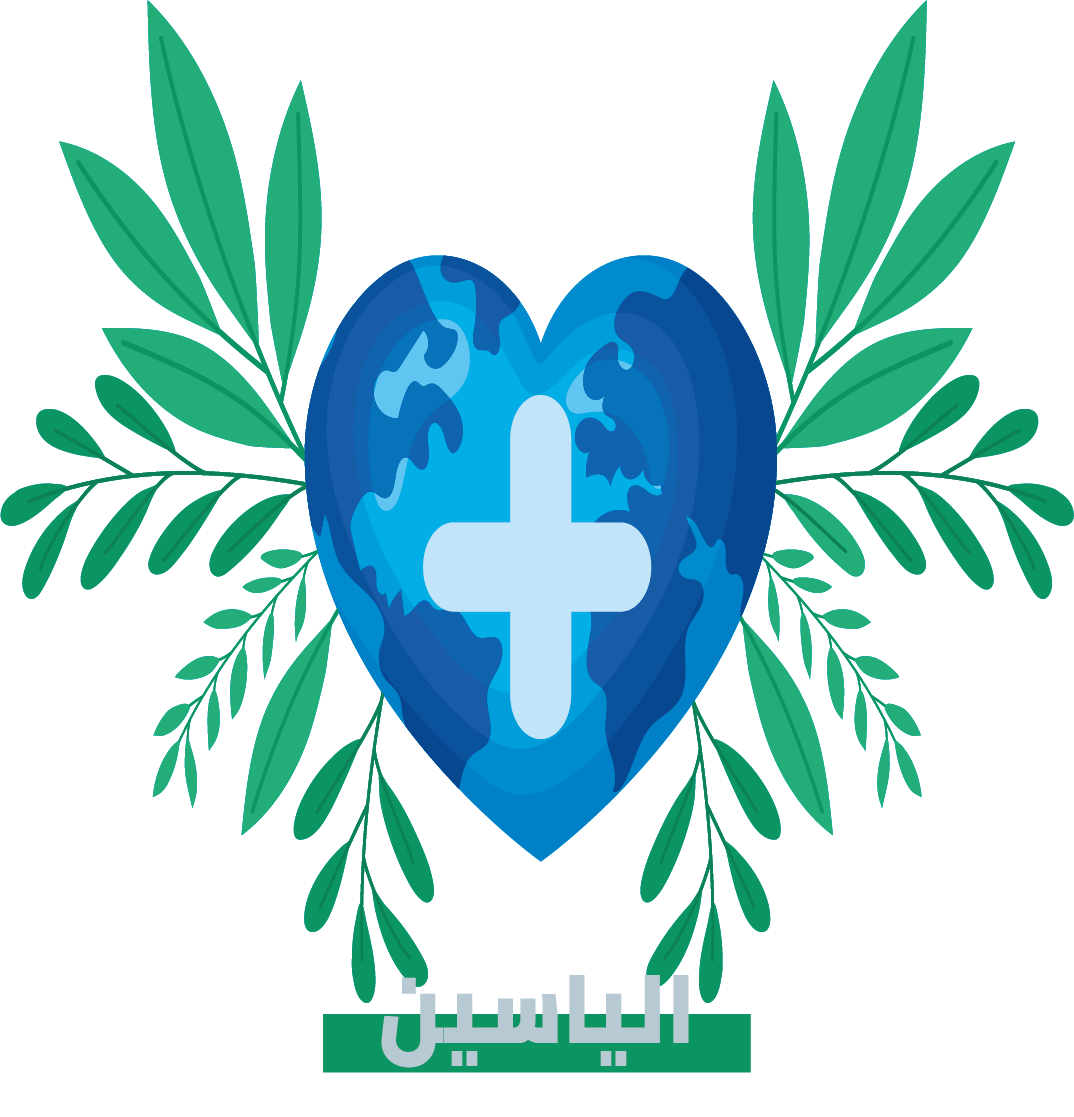
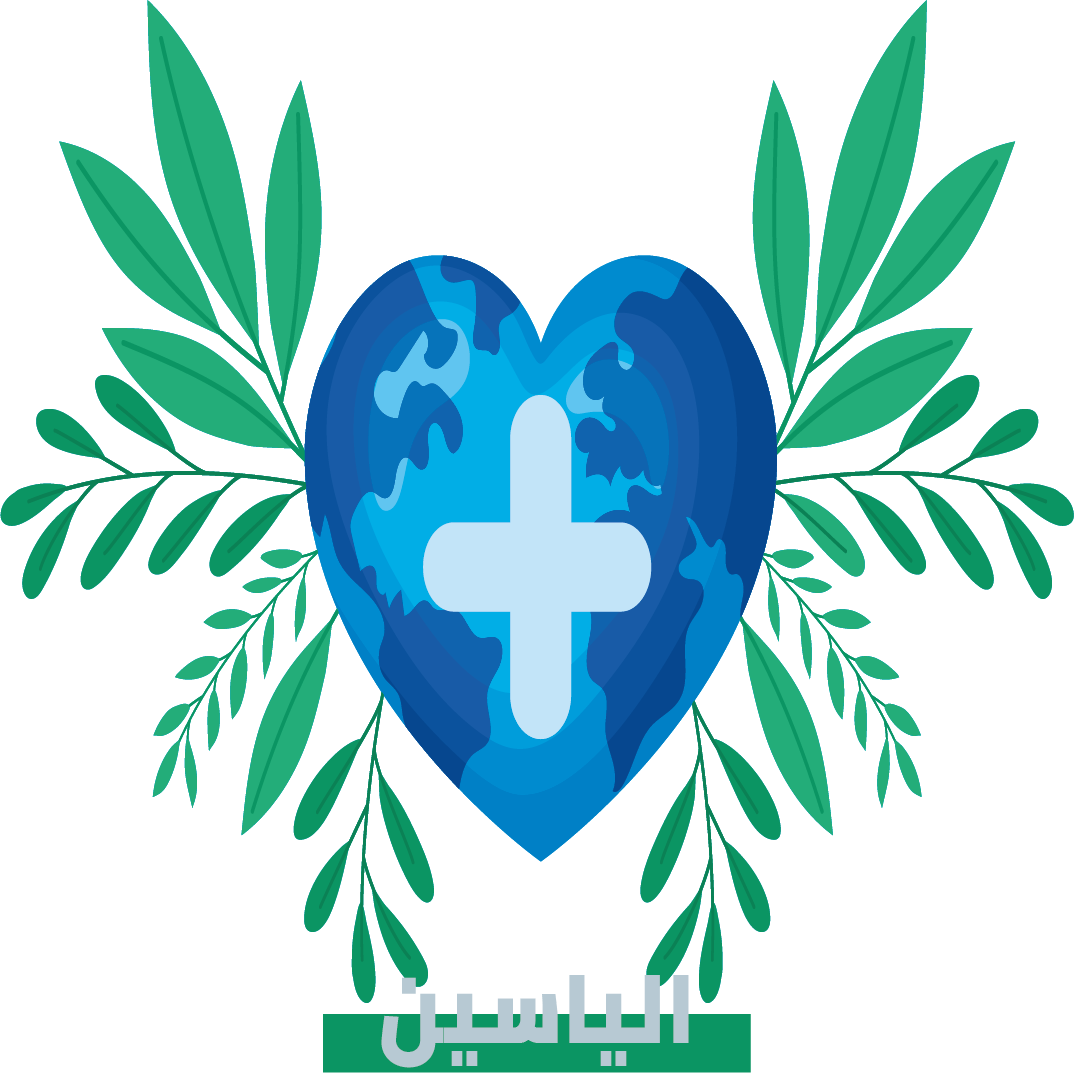
update

diff --git a/public/site/style.css b/public/site/style.css
@@ -91,7 +91,9 @@ body {
 }
 
 .navbar-logo img {
-  height: 38px;
+  /* الشعار الحالي مربع (1:1) — نملأ معظم ارتفاع الهيدر (55px) دون زيادته */
+  max-height: 50px;
+  width: auto;
 }
 
 /* ===== HERO SECTION ===== */
@@ -599,7 +601,8 @@ footer {
 }
 
 .footer-brand .logo-row img {
-  height: 50px;
+  /* شعار مربع أكبر ليتناسق مع نص "موقع الياسين" بجانبه */
+  height: 72px;
   width: auto;
   object-fit: contain;
 }
@@ -761,10 +764,18 @@ footer {
 /* لوجو الهيدر: نضبطه بالارتفاع (وليس العرض) حتى لا يفيض عن شريط
    التنقل الذي ارتفاعه 55px — العرض يتناسب تلقائياً */
 .navbar img {
-    height: 48px;
+    /* max-height بدل height الثابت + إلغاء سقف العرض الضيق (كان 140px
+       لشعار عريض قديم) — الشعار المربع يملأ الآن معظم ارتفاع الهيدر */
+    max-height: 50px;
     width: auto;
-    max-width: 140px;
+    max-width: 200px;
     object-fit: contain;
+}
+
+/* الشاشات الصغيرة: الشعار لا يفيض عن الهيدر المتعدد الأسطر */
+@media (max-width: 768px) {
+  .navbar img,
+  .navbar-logo img { max-height: 42px; }
 }
 /* ضبط الخط والحجم الأساسي لكل الموقع */
 body {

diff --git a/public/admin/css/style.css b/public/admin/css/style.css
@@ -166,7 +166,8 @@ body {
     padding: 16px 10px 0;
 }
 .sidebar-logo img {
-    height: 56px;
+    /* الشعار الحالي مربع — حجم أوضح أعلى السايدبار */
+    height: 72px;
     width: auto;
     max-width: 88%;
     object-fit: contain;
@@ -684,9 +685,9 @@ body.login-page {
 }
 
 /* 4. تكبير اللوجو ليتناسب مع العرض الجديد */
-.login-logo { 
-    width: 150px;      /* تكبير اللوجو ليملأ المساحة العريضة */
-    margin-bottom: 30px; 
+.login-logo {
+    width: 170px;      /* تكبير اللوجو المربع ليكون واضحاً فوق الفورم */
+    margin-bottom: 30px;
 }
 
 /* 5. تكبير زر الدخول */